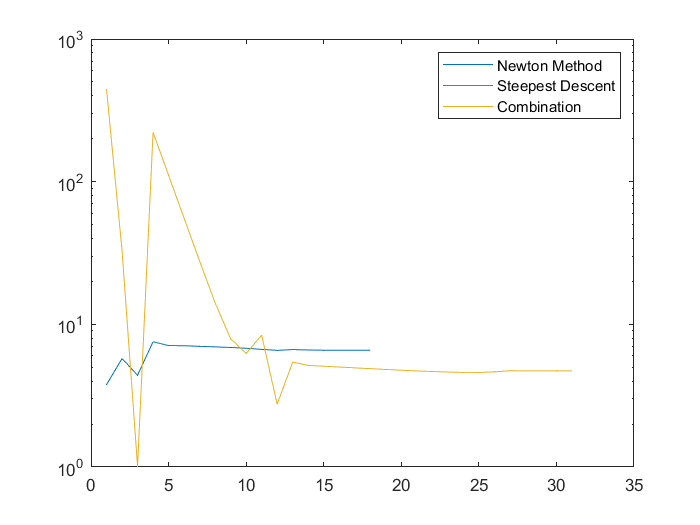
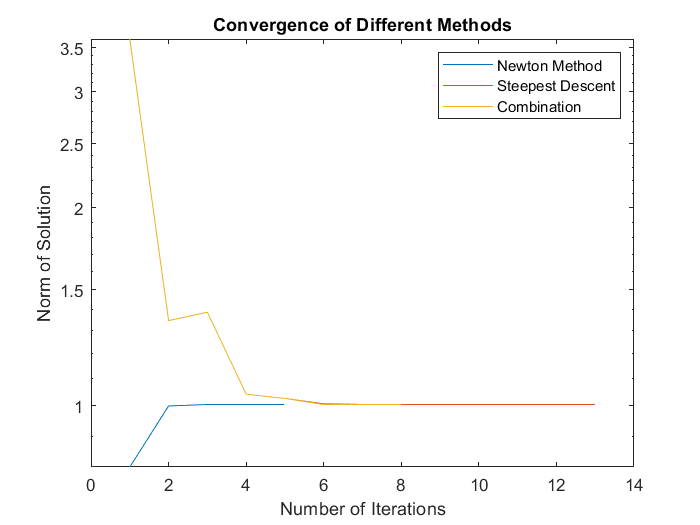
Added prelab 8

diff --git a/Homework/Homework 4/Problem3_main.m b/Homework/Homework 4/Problem3_main.m
@@ -2,24 +2,28 @@ clc
 clear all
 close all
 
-x0 = [6;2;1];
+x0 = [0;2;3];
 tol = 10^(-6);
 nmax = 1000;
 verb = 1;
-
+x_exact = [0;.1;1];
 
 fprintf('Newton Method')
 [r,rn] = newton_method_nd(@fun,@Jfun,x0,tol,nmax,verb);
 for i = 1:length(rn)
     norm_x_Newton(1,i) = norm(rn(:,i));
+    err_x_Newton(1,i) = norm(rn(:,i)-x_exact);
 end
 
+
 fprintf('\nSteepest Descent')
-type = 'armijo';
-%type = 'swolfe';
+%type = 'armijo';
+type = 'swolfe';
 [r,rn] = steepest_descent(@fun,@qfun,x0,tol,nmax,type,verb);
+
 for i = 1:length(rn)
-    norm_x_steep(1,i) = norm(rn(i,:));
+    norm_x_steep(1,i) = norm(rn(:,i));
+    err_x_steep(1,i) = norm(rn(:,i)-x_exact);
 end
 
 
@@ -27,16 +31,33 @@ fprintf('\nCombination')
 tol_1 = 5*10^(-2);
 [r,rn] = steepest_descent(@fun,@qfun,x0,tol_1,nmax,type,verb);
 for i = 1:length(rn)
-    norm_x_comb(1,i) = norm(rn(i,:));
+    norm_x_comb(1,i) = norm(rn(:,i));
+    err_x_comb(1,i) = norm(rn(:,i)-x_exact);
 end
 
 tol_2 = 10^(-6);
 [r,rn] = newton_method_nd(@fun,@Jfun,r,tol,nmax,verb);
+
 for k = 1:length(rn)
     norm_x_comb(1,i+k) = norm(rn(:,k));
+    err_x_comb(1,i+k) = norm(rn(:,k)-x_exact);
 end
 
+figure(1)
 semilogy(1:length(norm_x_Newton),norm_x_Newton,1:length(norm_x_steep),norm_x_steep,1:length(norm_x_comb),norm_x_comb)
+title('Convergence of Different Methods')
+legend('Newton Method','Steepest Descent','Combination')
+xlabel('Number of Iterations')
+ylabel('Norm of Solution')
+set(gca, 'yscale', 'log')
+
+figure(2)
+plot(1:length(err_x_Newton),err_x_Newton,1:length(err_x_steep),err_x_steep,1:length(err_x_comb),err_x_comb)
+%semilogy(1:length(err_x_Newton),norm_x_Newton)
+set(gca, 'yscale', 'log')
+xlabel('Number of Iterations')
+title('Error over Iterations for Differnet Methods')
+ylabel('Norm of the Error in the Solution')
 legend('Newton Method','Steepest Descent','Combination')
 
 
@@ -71,13 +92,13 @@ end
 %     y(2,2) = 1;
 % end
 
-% function q = qfun(x)
-%     J = Jfun(x);
-%     y = fun(x);
-%     q = transpose(J)*y;
-% end
-
 function q = qfun(x)
+    J = Jfun(x);
     y = fun(x);
-    q = .5 * y(1)^2 + y(2)^2 + y(3)^2;
+    q = transpose(J)*y;
 end
+
+% function q = qfun(x)
+%     y = fun(x);
+%     q = .5 * y(1)^2 + y(2)^2 + y(3)^2;
+% end

diff --git a/Labs/Lab 8/prelab8.py b/Labs/Lab 8/prelab8.py
@@ -1,0 +1,40 @@
+import numpy as np
+import matplotlib.pyplot as plt
+import math
+from numpy.linalg import inv
+from numpy.linalg import norm
+
+def driver():
+
+    def f(x):
+        y = x**2
+        return y
+    
+    x = np.linspace(-10,10)
+    y = f(x)
+
+    x_nodes = np.array([.1,5])
+    y_nodes = f(x_nodes)
+    alpha = 2
+    f_alpha = line(x_nodes,y_nodes,alpha)
+
+    plt.plot(x,y)
+    plt.plot(x_nodes,y_nodes)
+    plt.plot(alpha,f_alpha,'ro')
+    plt.show()
+
+
+
+def line(x,y,alpha):
+    #x is vector of two nodes
+    #y is vector is the function evaluated at each x
+    #alpha is the interpolation node
+    m = (y[1]-y[0])/(x[1]-x[0])
+    y_alph = y[0]+m*(alpha-x[0])
+    return[y_alph]
+
+
+
+if __name__ == '__main__':
+  # run the drivers only if this is called from the command line
+  driver()

diff --git a/Homework/Homework 4/Problem1.py b/Homework/Homework 4/Problem1.py
@@ -15,7 +15,7 @@ def evalF(x):
 def evalJ(x):
 
 
-    J = np.array([[6*x[0],3*x[1]**2-3*x[0]**2],[-2*x[1],6*x[0]*x[1]]])
+    J = np.array([[6*x[0],-2*x[1]],[3*x[1]**2-3*x[0]**2,6*x[0]*x[1]]])
     return J
 
 
@@ -82,7 +82,7 @@ print('Remainder is',f_eval,'\n\n')
 x_0 = 1
 y_0 = 1
 tol = np.array(1e-10)
-Nmax = 10000
+Nmax = 100
 x0 = np.array([x_0,y_0])
 [xstar,xlist,ier,its] =  Newton(x0,tol,Nmax)
 

diff --git a/Homework/Homework 4/steepest_descent.m b/Homework/Homework 4/steepest_descent.m
@@ -33,7 +33,7 @@ Instructor: Eduardo Corona
 
 params.c1 = 10^-3; params.c2 = 0.9; params.maxback=10; xn=x0; 
 n=0; rn(:,1)=x0; 
-alpha=1/2; 
+alpha=1; 
 fn = fun(xn); 
 pn = -Gfun(xn); 
 

diff --git a/Homework/Homework 4/Problem 2.py b/Homework/Homework 4/Problem 2.py
@@ -6,6 +6,7 @@ from numpy.linalg import norm
 
 def driver():
     x0 = (1,1)
+    
 
 
 def evalF(x):
